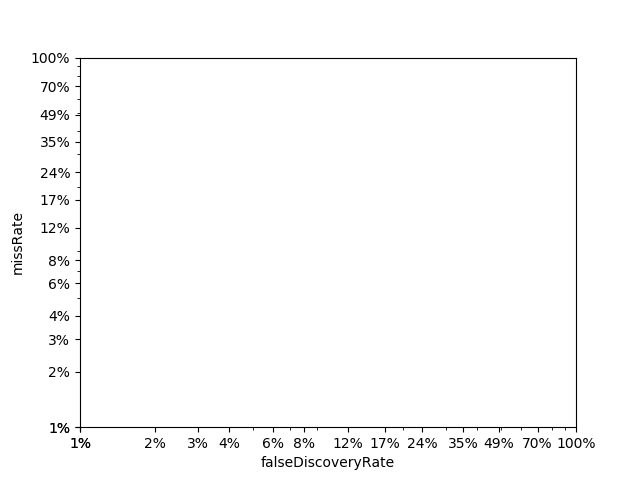
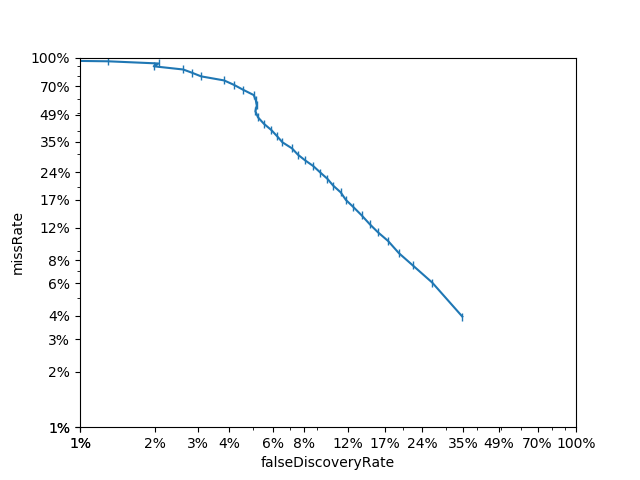
updated evaluation result

diff --git a/train.py b/train.py
@@ -163,8 +163,8 @@ if __name__ == "__main__":
 		args.args.thresh_range.append(args.args.thresh)
 	elif args.args.thresh_range:
 		print('threshold range: ', args.args.thresh_range)
-		thresholds = np.arange(*args.args.thresh_range)
-		print('thresholds : ', thresholds)
+		args.args.thresh_range = np.arange(*args.args.thresh_range)
+		print('thresholds : ', args.args.thresh_range)
 
 	lastBoxSz = '0'
 
@@ -174,8 +174,8 @@ if __name__ == "__main__":
 		# skip training if evalutaion argument switch
 		if not args.args.evaluate:
 			lastBoxSz = train(pathsDic, lastBoxSz)
-		# evaluate only if thresholds were specified
-		if args.args.thresh_range:
+		# evaluate if thresholds were specified
+		if len(args.args.thresh_range) > 0:
 			try:
 				test.test(pathsDic)
 			except Exception as err:

diff --git a/test.py b/test.py
@@ -131,8 +131,12 @@ def test(pathsDic):
 	# save comparison stats to curve.txt 
 	with open(pathsDic['curve'] + '.txt', 'w') as curveFile:
 		for resultListType in resultMean:
+			for thresh in args.args.thresh_range:
+				thresh = round(thresh, 4)
+				curveFile.write('{:0.10f} '.format(thresh))
+			curveFile.write('\n')
 			for val in resultListType:
-				curveFile.write('{} '.format(val))
+				curveFile.write('{:0.10f} '.format(val))
 			curveFile.write('\n')
 	# plot stats curve
 	import matplotlib.pyplot as plt
